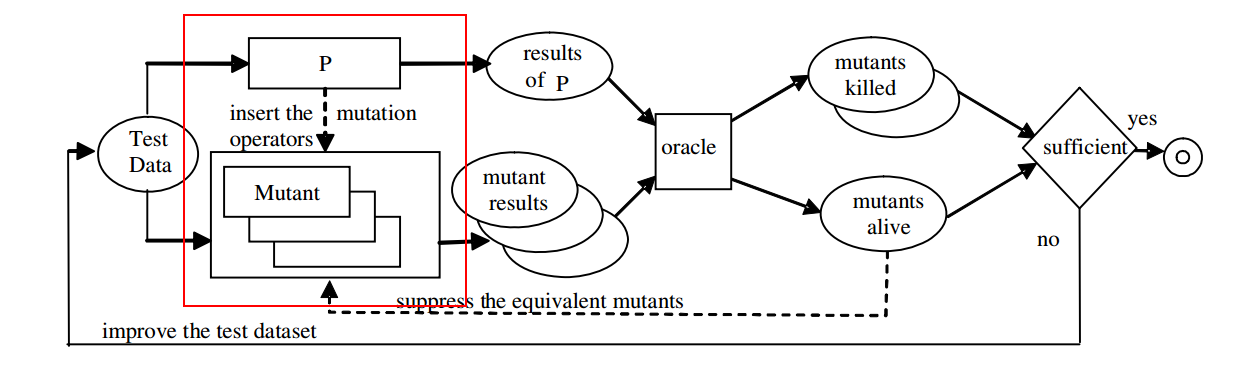
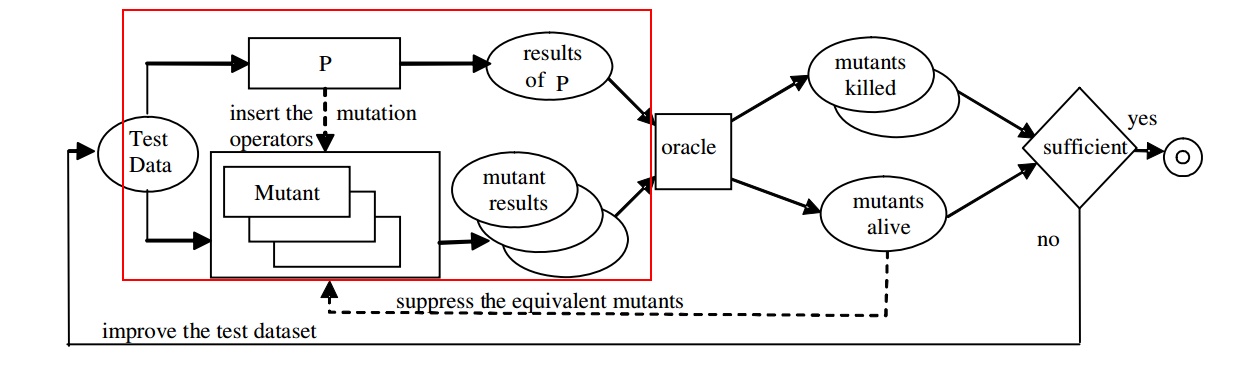
Added new image.

Changed region(s): [[0.0919, 0.0, 0.5205, 0.0579], [0.0919, 0.7237, 0.5205, 0.7526], [0.1531, 0.7816, 0.3674, 0.8105]]

diff --git a/seminarpaper.tex b/seminarpaper.tex
@@ -142,10 +142,9 @@ This report show what additional transformation have been developed and what the
 \begin{figure}
 	\centering
 	\includegraphics[width=0.7\textwidth]{figures/Marked_Mutation_Process}
-	\caption{The mutation testing workflow contains a feedback loop.\cite{MatMottu2006}}
+	\caption{The mutation testing workflow contains a feedback loop. The red marked area is the part this paper contributes to.\cite{MatMottu2006}}
 	\label{fig:Marked_Mutation_Process}
 \end{figure}
-
 
 Model transformations play an important role in the Model Driven Engineering
 (MDE) approach. Developing model transformation definitions is expected to
@@ -159,8 +158,6 @@ Model transformation is an important technique in software development, espacial
 ATL is a model transformation language containing a mixture of declarative and
 imperative constructs. ATL is applied in the context of the
 transformation pattern shown in \label{fig:overview_atl}. In this pattern a source model Ma is transformed into a target model Mb according to a transformation definition mma2mmb.atl written in the ATL language. The transformation definition is a model conforming to the ATL metamodel. All metamodels conform to the MOF.
-ATL is a hybrid transformation language. It contains a mixture of declarative
-and imperative constructs. We encourage a declarative style of specifying transformations. The declarative style of transformation specification has a number of advantages. It is usually based on specifying relations between source and target patterns and thus tends to be closer to the way the developers intuitively perceive a transformation. This style stresses on encoding these relations and hides the details related to selection of source elements, rule triggering and ordering, dealing with traceability, etc. Therefore, it can hide complex transformation algorithms behind a simple syntax.\cite{atl:frederic}
 
 \begin{figure}
 	\centering
@@ -169,12 +166,17 @@ and imperative constructs. We encourage a declarative style of specifying transf
 	\label{fig:overview_atl}
 \end{figure}~\cite{atl:frederic}
 
+ATL is a hybrid transformation language. It contains a mixture of declarative
+and imperative constructs. It is encouraged to use a declarative style of specifying transformations. The declarative style of transformation specification has a number of advantages. It is usually based on specifying relations between source and target patterns and thus tends to be closer to the way the developers intuitively perceive a transformation. This style stresses on encoding these relations and hides the details related to selection of source elements, rule triggering and ordering, dealing with traceability, etc. Therefore, it can hide complex transformation algorithms behind a simple syntax.\cite{atl:frederic}
+
 \begin{figure}
 	\centering
 	\includegraphics[width=0.7\textwidth,natwidth=610,natheight=642]{figures/Class_metamodel.jpg}
 	\caption{Class metamodel}
 	\label{fig:class_metamodel_atl}
-\end{figure}~\cite{atl:frederic}
+\end{figure}~
+
+The class metamodel is used by the following ATL transformation\ref{lst:shortexample} to create model of the relational metamodel\ref{fig:relational_metamodel_atl}\cite{atl:frederic}
 
 \begin{figure}
 	\centering
@@ -193,13 +195,13 @@ rule EntityModel2FormModel {
 		em : Forms!EntityModel
 	to 
 		fm : Forms!FormModel (
+			name <- em.name
 		)
 }
 //End Program
 \end{lstlisting}
 
-The ATL transformation in \ref{lst:shortexample} shows a tranformation Entities2Form. The source model is the 'IN'
-model and the target model is 'OUT'. The rule mapped the elements EntityModel to FormModel.
+The source model is the 'IN' model and the target model is 'OUT'. The rule mapped the elements EntityModel to FormModel.
 
 \subsubsection{Higher Order Transformations}
 
